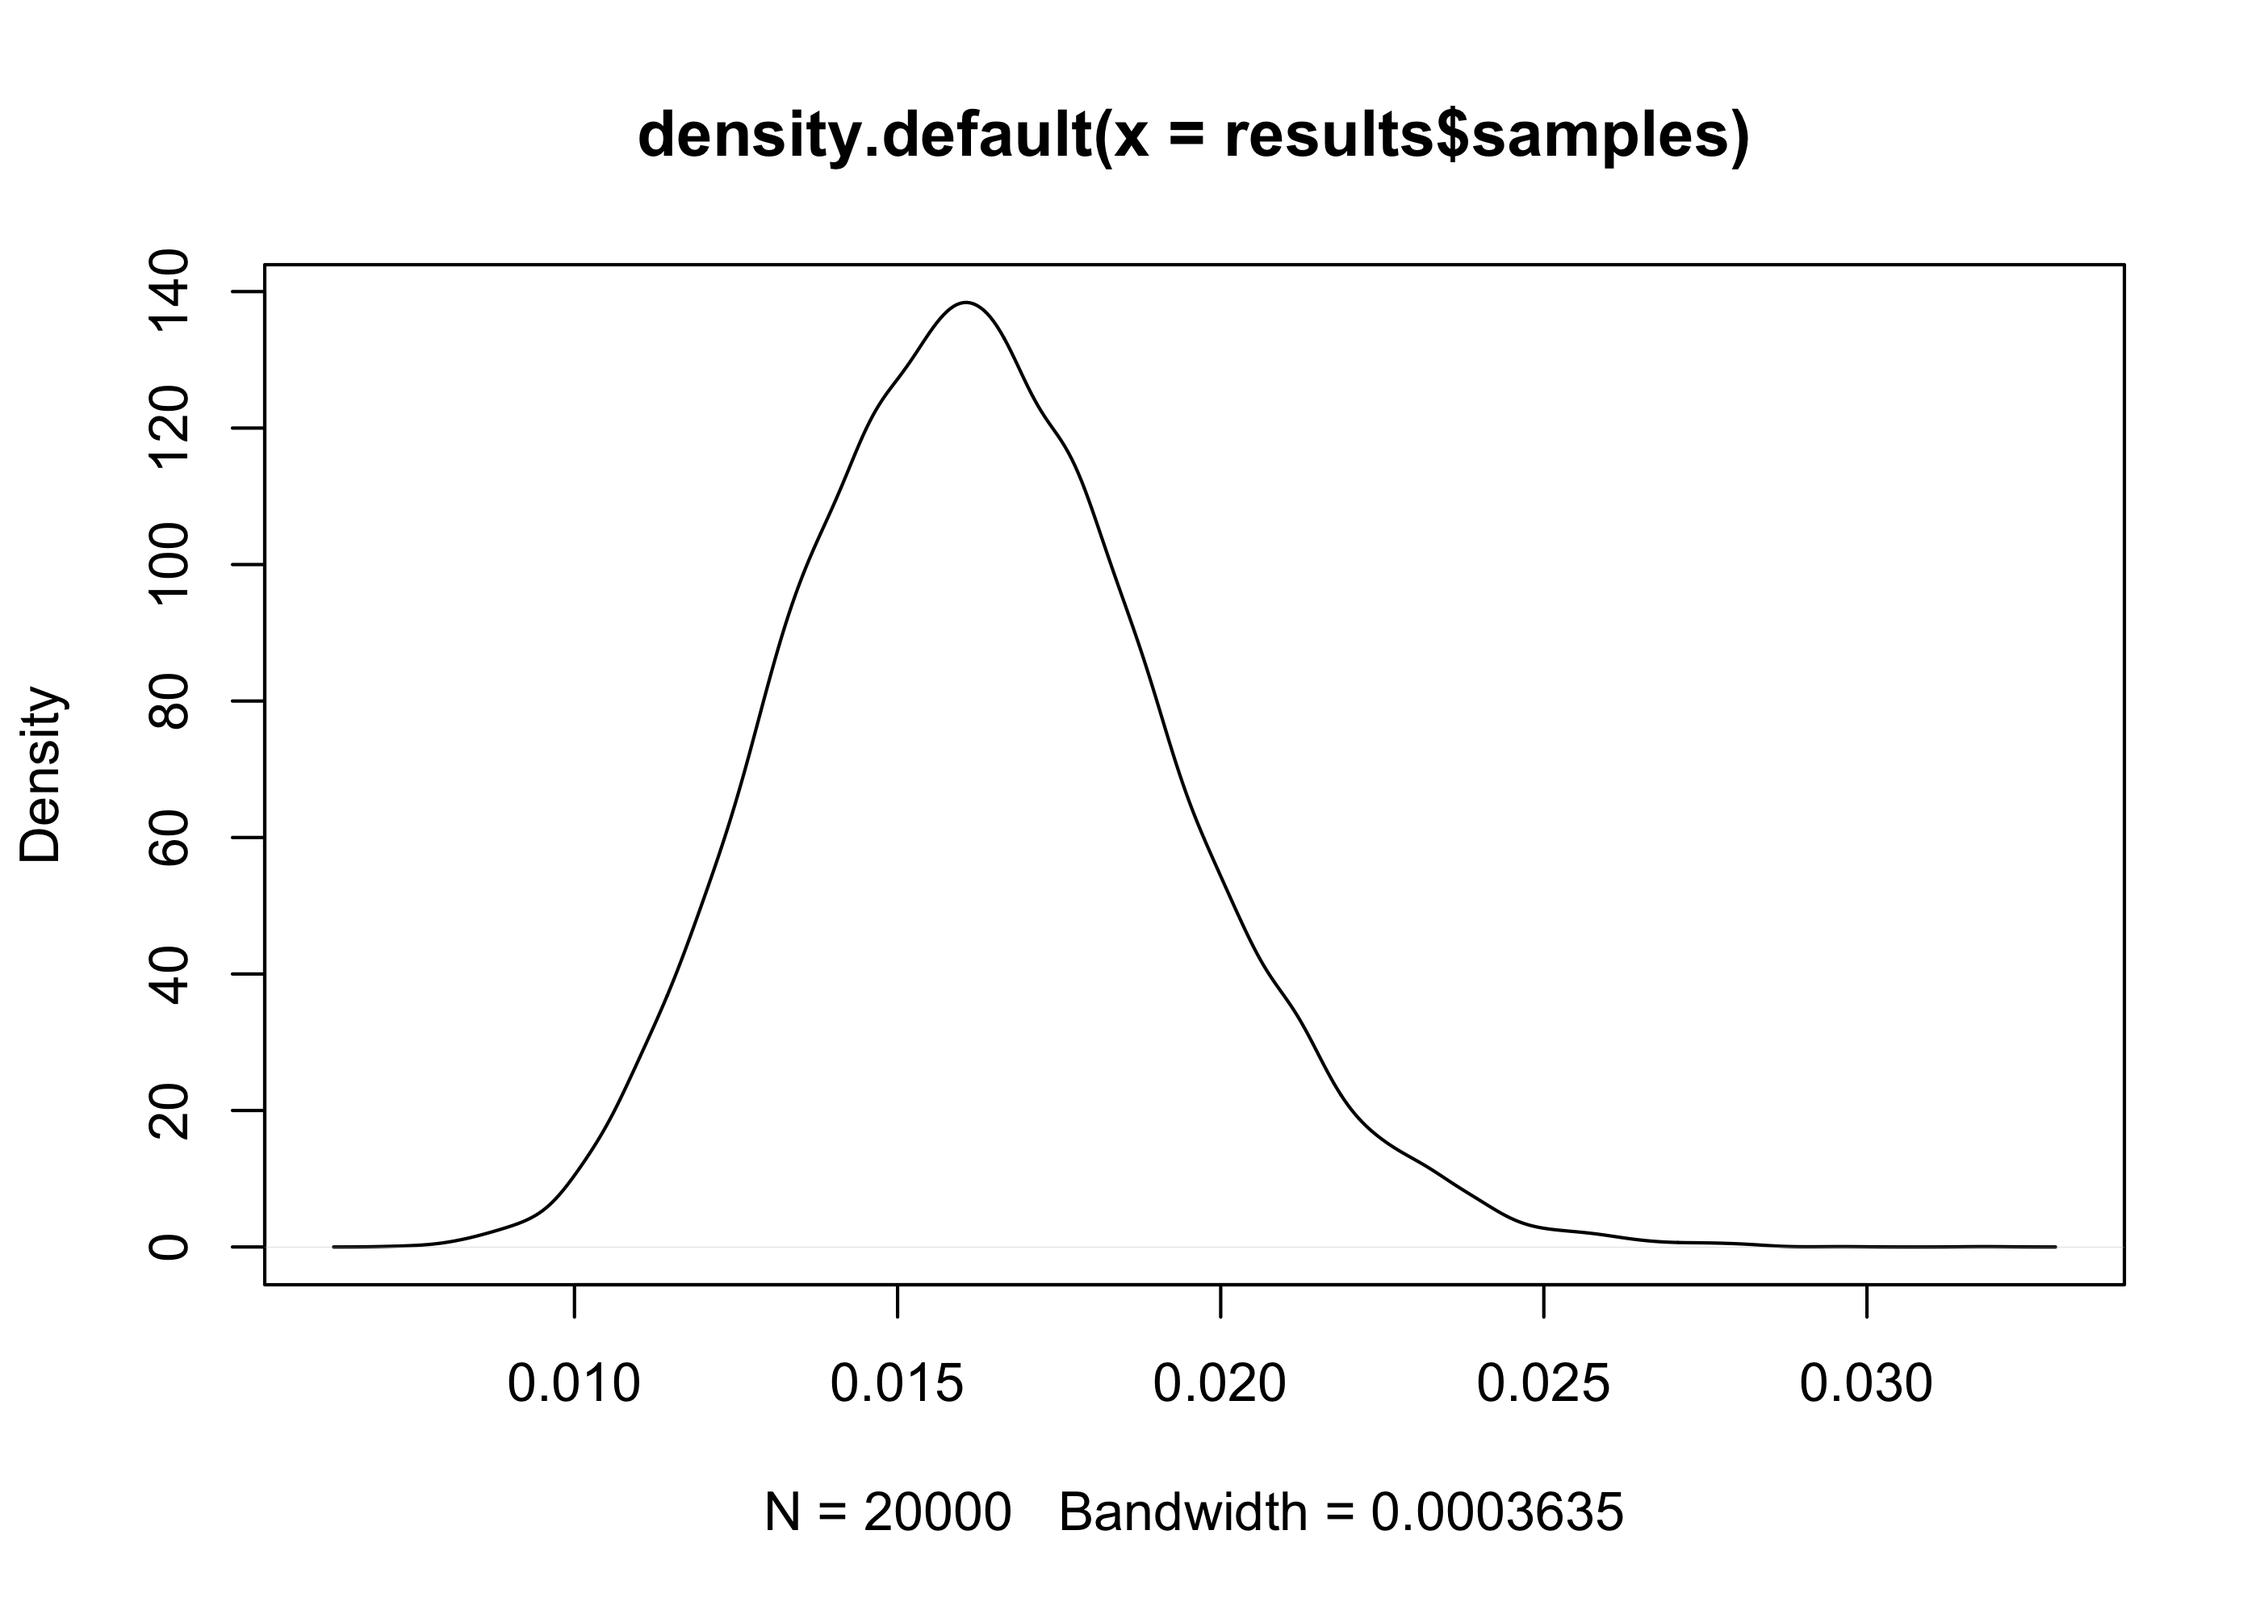
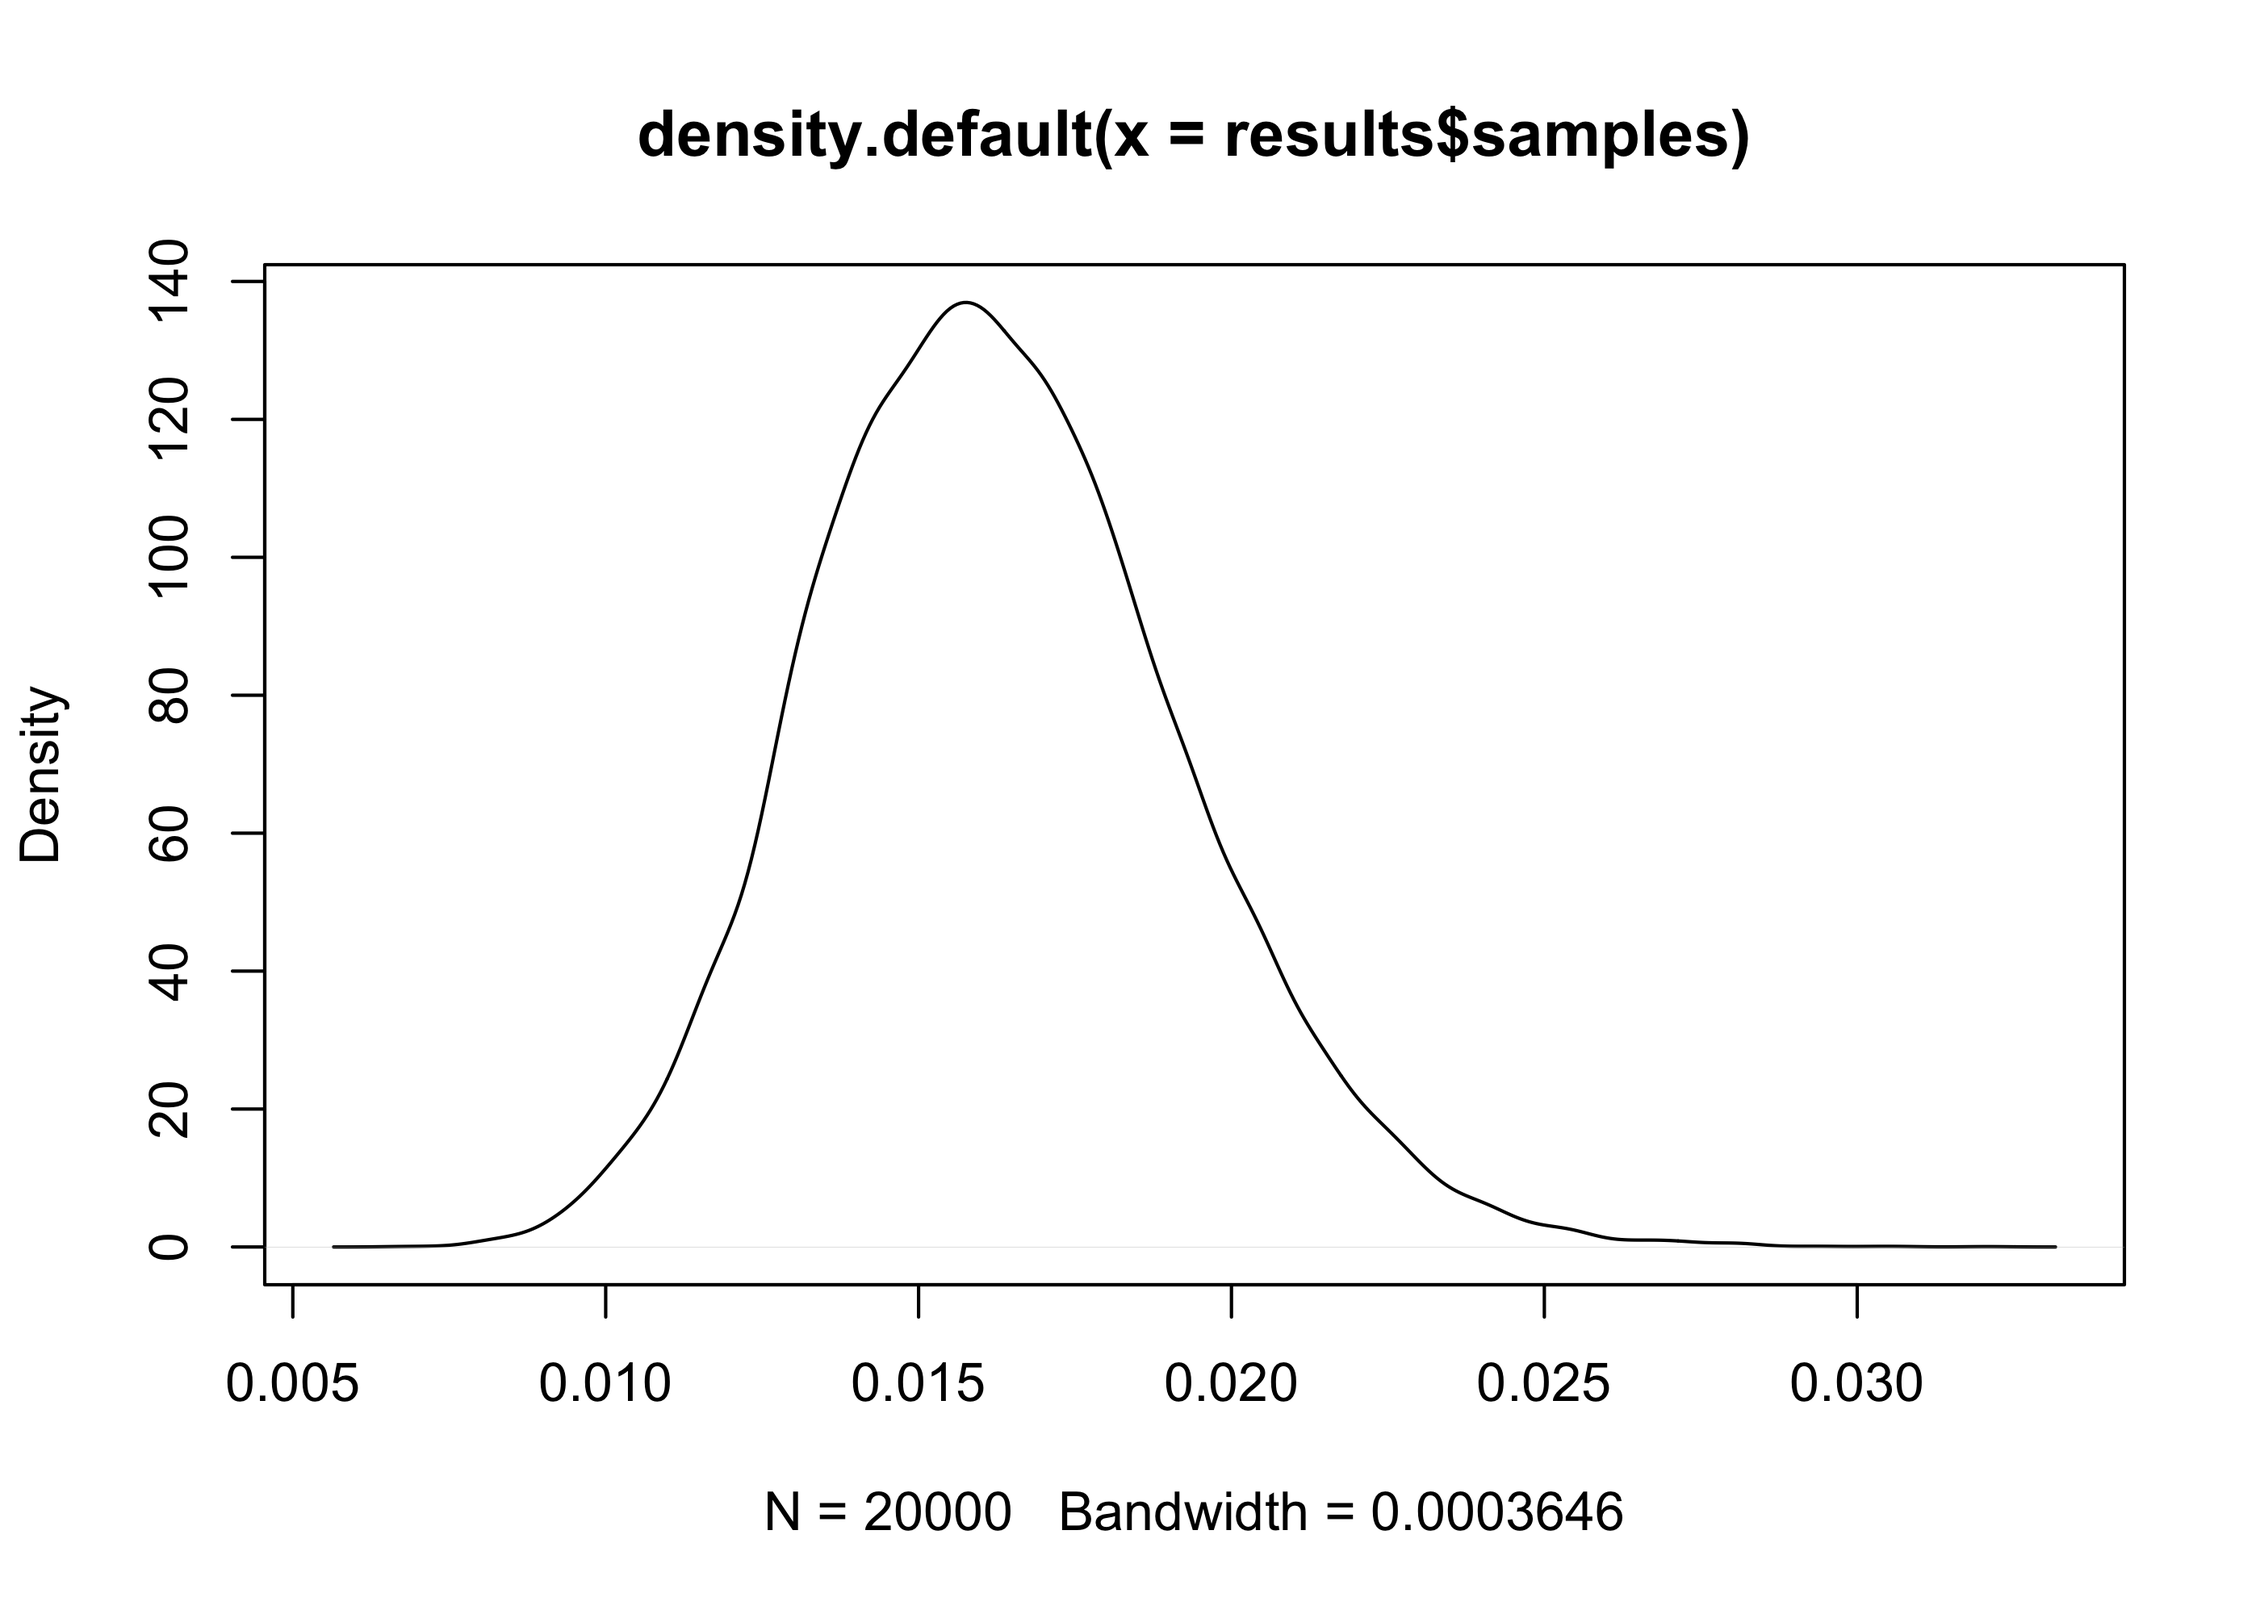
- Improvements to the optimization part

diff --git a/README.md b/README.md
@@ -80,7 +80,7 @@ results <- get_estimates(10, 200, 30, method = 'HB')
 #> 
 #> 
 #> @@@@@@@@@@@@@@@@@@@@@@@@@@@@@@@@@@@@@@@@@@@@@@@@@@@@@@@@@
-#> The Metropolis acceptance rate was 0.67610
+#> The Metropolis acceptance rate was 0.75312
 #> @@@@@@@@@@@@@@@@@@@@@@@@@@@@@@@@@@@@@@@@@@@@@@@@@@@@@@@@@
 
 plot(density(results$samples))
@@ -100,7 +100,7 @@ if the average prevalence is below 2% with a \> 90% probability:
 results <- get_estimates(10, 200, 30, iters = 200000)
 
 mean(results$samples < .02)
-#> [1] 0.893245
+#> [1] 0.892735
 ```
 
 In this case the probability of a mean prevalence below 2% is 89.3%,
@@ -120,10 +120,10 @@ new.positve.pools <- 9
 new.results <- get_estimates(10, 200 + new.tested.pools, 30 + new.positve.pools, iters = 200000)
 
 mean(new.results$samples < .02)
-#> [1] 0.92221
+#> [1] 0.92148
 ```
 
-The new probability is 92.2%, so we have enough evidence to remove the
+The new probability is 92.1%, so we have enough evidence to remove the
 control measure.
 
 Finally, we want to ascertain the probability that region A, with 30
@@ -137,7 +137,7 @@ region.A <- get_estimates(10, 200, 30, iters = 200000)
 region.B <- get_estimates(10, 180, 38, iters = 200000)
 
 mean(region.A$samples < region.B$samples)
-#> [1] 0.939065
+#> [1] 0.94025
 ```
 
 ## Study design optimization
@@ -177,8 +177,9 @@ plot_optimization_grid(grid)
 The plot shows the “optimization windows” with different colors, ordered
 by the average score (lower is better).
 
-We can observe that the best window is achieved with a pool size `s` of
-10 or more and with a number of test `w` higher than 108.
+We can observe that the best window (score: -10.89) is achieved with a
+pool size `s` of 10 or more and with a number of test `w` higher than
+108.
 
 Once a window has been identified, simulation tests can be used to
 evaluate the statistical performance. The tests need to be carried on
@@ -205,8 +206,8 @@ print(format_simulation(simulation.low_w))
 #>                            [,1]                           
 #> Estimated prevalence       "4.9%, 95%CI: [3.6%, 6.5%]"    
 #> Estimation uncertainty     "2.9%, 95%CI: [2.4%, 3.5%]"    
-#> Estimation error           "0.55%, 95%CI: [5e-04, 1.7%]"  
-#> Unpooled study prevalence  "5%, 95%CI: [3.7%, 6.4%]"      
+#> Estimation error           "0.48%, 95%CI: [5e-04, 1.7%]"  
+#> Unpooled study prevalence  "5%, 95%CI: [3.7%, 6.3%]"      
 #> Unpooled study uncertainty "2.6%, 95%CI: [2.3%, 2.9%]"    
 #> Unpooled study error       "0.46%, 95%CI: [2.7e-05, 1.5%]"
 
@@ -216,8 +217,8 @@ print(format_simulation(simulation.high_w))
 #>                            [,1]                           
 #> Estimated prevalence       "5%, 95%CI: [4%, 6.2%]"        
 #> Estimation uncertainty     "2.2%, 95%CI: [1.9%, 2.5%]"    
-#> Estimation error           "0.33%, 95%CI: [0.021%, 1.2%]" 
-#> Unpooled study prevalence  "5%, 95%CI: [4%, 5.9%]"        
+#> Estimation error           "0.38%, 95%CI: [0.021%, 1.2%]" 
+#> Unpooled study prevalence  "5%, 95%CI: [4.1%, 6%]"        
 #> Unpooled study uncertainty "1.9%, 95%CI: [1.7%, 2.1%]"    
 #> Unpooled study error       "0.35%, 95%CI: [1.5e-05, 1.1%]"
 ```
